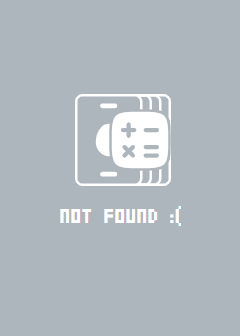
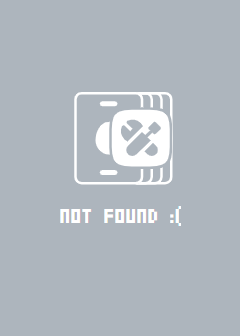
update brand

diff --git a/src/index.html b/src/index.html
@@ -19,8 +19,8 @@
   <meta property="og:site_name" content="TCG Toolbox">
   <meta property="og:url" content="">
   <meta property="og:type" content="website">
-  <meta property="og:image" content="https://images2.imgbox.com/1c/6f/hpUCXBHL_o.png"> 
-  <meta property="og:image:secure_url" content="https://images2.imgbox.com/1c/6f/hpUCXBHL_o.png"> 
+  <meta property="og:image" content="https://images2.imgbox.com/b3/e3/a30BRypR_o.png"> 
+  <meta property="og:image:secure_url" content="https://images2.imgbox.com/b3/e3/a30BRypR_o.png"> 
   <meta property="og:image:width" content="300">
   <meta property="og:image:height" content="200">
 
